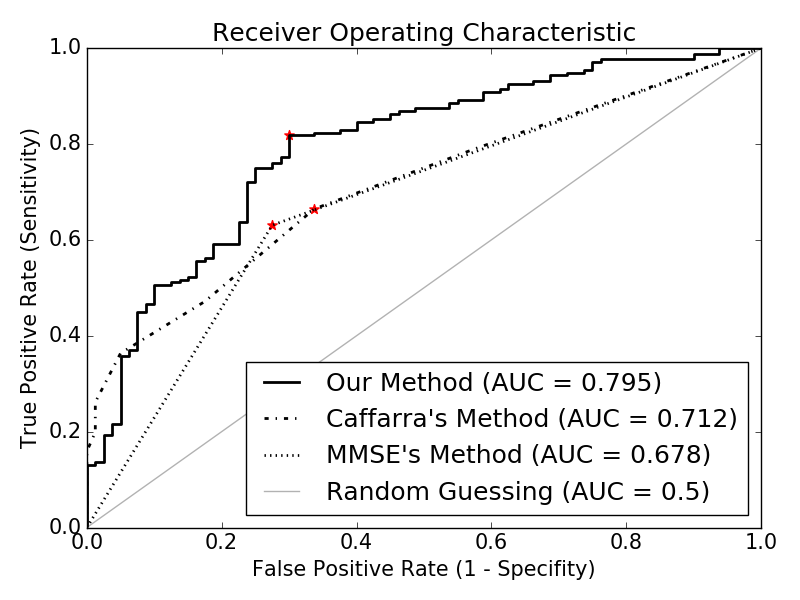
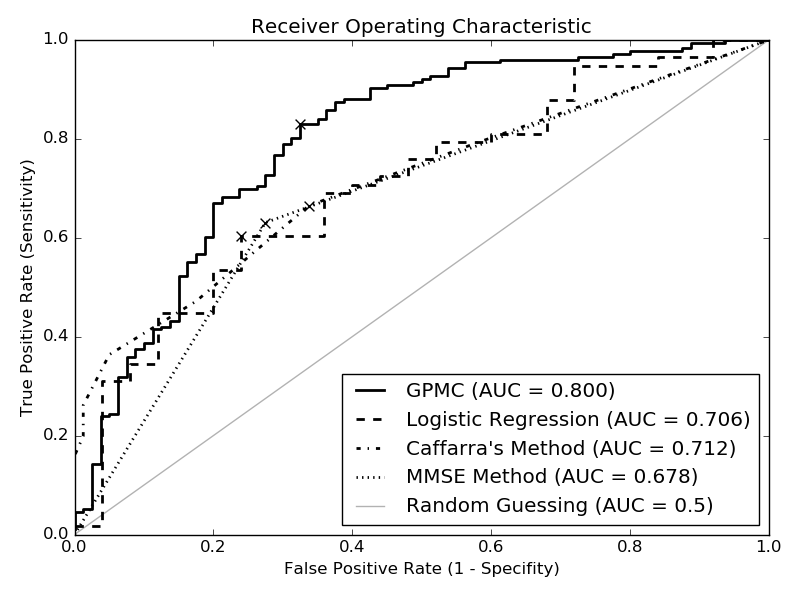
commit from max-OptiPlex-7040 by max

diff --git a/applications/digital_drawing/evaluate_features.py b/applications/digital_drawing/evaluate_features.py
@@ -7,6 +7,7 @@ import numpy as np
 import pandas as pd
 import matplotlib.pyplot as plt
 from sklearn.metrics import roc_curve, auc
+from sklearn.linear_model import LogisticRegression
 from DecisionSystem import DecisionSystem
 
 from sys import path
@@ -15,7 +16,7 @@ from GomPlex import *
 
 DRAWING_RAW_DATA_PATH = 'drawing_raw_data.csv'
 
-model = DecisionSystem(sample_time=50, use_past=4,
+model = DecisionSystem(sample_time=100, use_past=4,
     use_gender=True, use_age=True, use_edu_level=True,
     show_training_drawings=False, show_predicted_drawings=False)
 model.load_drawing_data(DRAWING_RAW_DATA_PATH)
@@ -41,16 +42,40 @@ def get_eval_from_fpr_tpr(fpr, tpr):
     print("Accuracy =", accuracy)
     print("Precision =", precision)
     print("F1 Score =", F1)
-
+    
 AUC, F1, cfs_mat, cis, pred_cis = model.eval_features_for_subjects()
+
 fpr, tpr, thresholds = roc_curve(cis, pred_cis)
 AUC = auc(fpr, tpr)
 arg = np.argmax(tpr-fpr)
-plt.plot(fpr, tpr, color='black', lw=2, linestyle='-', label='Our Method (AUC = %0.3f)' % AUC)
-plt.scatter(fpr[arg], tpr[arg], s=80, color='r', marker='x')
-# plt.text(fpr[arg]+0.005, tpr[arg]-0.04, '(%.3f, %.3f)'%(fpr[arg], tpr[arg]))
-print('Our Method:')
+plt.plot(fpr, tpr, color='black', lw=2, linestyle='-', label='GPMC (AUC = %0.3f)' % AUC)
+plt.scatter(fpr[arg], tpr[arg], s=50, color='k', marker='x')
+print('GPMC:')
 get_eval_from_fpr_tpr(fpr[arg], tpr[arg])
+
+lr = ['Number of angles', 'Intersection', 'Closure', 'Rotation', 'Closing-in']
+lr_mat = model.df_drawing_data[lr].as_matrix().tolist()
+lr_y = model.ci.as_matrix().astype(np.int64)
+X, y = [], []
+for i, lr_vec in enumerate(lr_mat):
+    avg_V = model.avg_V[model.df_drawing_data.index[i]]
+    std_V = model.std_V[model.df_drawing_data.index[i]]
+    avg_T = model.avg_T[model.df_drawing_data.index[i]]
+    std_T = model.std_T[model.df_drawing_data.index[i]]
+    if(not np.any(np.isnan([avg_V, std_V, avg_T, std_T]))):
+        lr_vec.extend([avg_V, std_V, avg_T, std_T])
+        X.append(lr_vec)
+        y.append(lr_y[i])
+lr_model = LogisticRegression().fit(X[:int(len(X)*0.65)], y[:int(len(X)*0.65)])
+pred_cis_lr = lr_model.predict_proba(X[int(len(X)*0.65):])
+fpr_lr, tpr_lr, thresholds_lr = roc_curve(y[int(len(X)*0.65):], pred_cis_lr[:, 1])
+AUC_lr = auc(fpr_lr, tpr_lr)
+arg_lr = np.argmax(tpr_lr-fpr_lr)
+plt.plot(fpr_lr, tpr_lr, color='black', lw=2, linestyle='--', label='Logistic Regression (AUC = %0.3f)' % AUC_lr)
+plt.scatter(fpr_lr[arg_lr], tpr_lr[arg_lr], s=50, color='k', marker='x')
+print('Logistic Regression:')
+get_eval_from_fpr_tpr(fpr_lr[arg_lr], tpr_lr[arg_lr])
+
 
 caffarra = ['Number of angles', 'Intersection', 'Closure', 'Rotation', 'Closing-in']
 caffarra_score = model.df_drawing_data[caffarra].sum(axis=1)
@@ -59,9 +84,7 @@ fpr_caff, tpr_caff, thresholds_caff = roc_curve(cis, 1-pred_cis_caff)
 AUC_caff = auc(fpr_caff, tpr_caff)
 arg_caff = np.argmax(tpr_caff-fpr_caff)
 plt.plot(fpr_caff, tpr_caff, color='black', lw=2, linestyle='-.', label='Caffarra\'s Method (AUC = %0.3f)' % AUC_caff)
-plt.scatter(fpr_caff[arg_caff], tpr_caff[arg_caff], s=80, color='r', marker='x')
-# plt.text(fpr_caff[arg_caff]+0.005, tpr_caff[arg_caff]-0.02,
-    # '(%.3f, %.3f)'%(fpr_caff[arg_caff], tpr_caff[arg_caff]))
+plt.scatter(fpr_caff[arg_caff], tpr_caff[arg_caff], s=50, color='k', marker='x')
 print('Caffarra\'s Method:')
 get_eval_from_fpr_tpr(fpr_caff[arg_caff], tpr_caff[arg_caff])
 
@@ -70,10 +93,8 @@ mmse_score = np.array(model.df_drawing_data[mmse].sum(axis=1)==8)/1.
 fpr_mmse, tpr_mmse, thresholds_mmse = roc_curve(cis, 1-mmse_score)
 AUC_mmse = auc(fpr_mmse, tpr_mmse)
 arg_mmse = np.argmax(tpr_mmse-fpr_mmse)
-plt.plot(fpr_mmse, tpr_mmse, color='black', lw=2, linestyle=':', label='MMSE\'s Method (AUC = %0.3f)' % AUC_mmse)
-plt.scatter(fpr_mmse[arg_mmse], tpr_mmse[arg_mmse], s=80, color='r', marker='x')
-# plt.text(fpr_mmse[arg_mmse]+0.008, tpr_mmse[arg_mmse]-0.04,
-    # '(%.3f, %.3f)'%(fpr_mmse[arg_mmse], tpr_mmse[arg_mmse]))
+plt.plot(fpr_mmse, tpr_mmse, color='black', lw=2, linestyle=':', label='MMSE Method (AUC = %0.3f)' % AUC_mmse)
+plt.scatter(fpr_mmse[arg_mmse], tpr_mmse[arg_mmse], s=50, color='k', marker='x')
 print('MMSE\'s Method:')
 get_eval_from_fpr_tpr(fpr_mmse[arg_mmse], tpr_mmse[arg_mmse])
 

diff --git a/applications/digital_drawing/DecisionSystem.py b/applications/digital_drawing/DecisionSystem.py
@@ -41,13 +41,14 @@ class DecisionSystem(object):
         self.metric = Metric(metric)
         self.show_training_drawings = show_training_drawings
         self.show_predicted_drawings = show_predicted_drawings
+        self.avg_V, self.std_V, self.avg_T, self.std_T = {}, {}, {}, {}
     
     def load_drawing_data(self, csv_path):
         self.df_drawing_data = pd.read_csv(csv_path, index_col=0, header=0)
         self.ci = self.df_drawing_data['MoCA Total'] < self.moca_cutoff
-        self.ci_p = self.ci.mean()
+        self.ci_p = 0.145
         self.nci = self.df_drawing_data['MoCA Total'] >= self.moca_cutoff
-        self.nci_p = self.nci.mean()
+        self.nci_p = 1-0.145
         if(self.use_age):
             self.age = self.df_drawing_data['Age']
             self.age_ci = self.age[self.ci]
@@ -94,11 +95,10 @@ class DecisionSystem(object):
         cfs_mat = np.zeros((2, 2))
         cis, pred_cis = [], []
         for subject in subjects:
-            self.df_drawing_data['Age']
-            leave_one_out_subjects = list(set(subjects).difference([subject]))
-            X_train, y_train = self.get_input_output_matrix_by_subjects(
-                leave_one_out_subjects)
-            model.fit(X_train, y_train)
+            # leave_one_out_subjects = list(set(subjects).difference([subject]))
+            # X_train, y_train = self.get_input_output_matrix_by_subjects(
+            #     leave_one_out_subjects)
+            # model.fit(X_train, y_train)
             ci, y, mu_ci, std_ci, mu_nci, std_nci =\
                 self.predict_next_drawing_state(subject, model, reg_meth)
             prob_P_ci = norm.pdf(y.real-mu_ci.real, scale=std_ci[0, 0].real)*\
@@ -280,7 +280,7 @@ class DecisionSystem(object):
         drawing = np.vstack([d_X, d_Y, d_W, d_T]).T
         if(self.centimeter):
             drawing[:, :2] /= self.CENTIMETER_TO_PIXELS
-        input, output = self.get_drawing_input_output_by_XYWT(drawing)
+        input, output = self.get_drawing_input_output_by_XYWT(subject, drawing)
         moca_ci = self.df_drawing_data['MoCA Total'] < self.moca_cutoff
         ci = moca_ci.loc[subject]
         input = np.hstack((ci*np.ones((input.shape[0], 1)), input))
@@ -296,9 +296,13 @@ class DecisionSystem(object):
             input = np.hstack((input, edu_level*np.ones((input.shape[0], 1))))
         return input, output
     
-    def get_drawing_input_output_by_XYWT(self, drawing):
+    def get_drawing_input_output_by_XYWT(self, subject, drawing):
         drawing, d_cL, d_V, d_DI = self.get_drawing_features_by_XYWT(drawing)
         d_X, d_Y, d_W, d_T = drawing.T.tolist()
+        self.avg_V[subject] = np.mean(d_V)
+        self.std_V[subject] = np.std(d_V)
+        self.avg_T[subject] = np.mean(d_T)
+        self.std_T[subject] = np.std(d_T)
         d_cT = np.cumsum(d_T)
         bound_max = d_cT[-1]-np.median(d_T)*self.forecast_step
         bound_min = np.median(d_T)*self.use_past*self.forecast_step

diff --git a/applications/starter/train_keras.py b/applications/starter/train_keras.py
@@ -63,8 +63,8 @@ print('Generating training data ...')
 df_train = train.merge(df_data, how='left', on='parcelid')
 y_train = df_train['logerror'].values
 y_train = np.sign(y_train)*(np.abs(y_train)**p)
-y_train = np.hstack(np.maximum(0, y_train)[:, None],
-    np.maximum(0, -y_train)[:, None])
+y_train = np.hstack((np.maximum(0, y_train)[:, None],
+    np.maximum(0, -y_train)[:, None]))
 X_train = df_train.drop(['parcelid', 'logerror', 'transactiondate', 'propertyzoningdesc', 'propertycountylandusecode', 'censustractandblock',
 'rawcensustractandblock'], axis=1)
 columns = X_train.columns

diff --git a/applications/starter/train.py b/applications/starter/train.py
@@ -50,7 +50,9 @@ for col in cat_cols:
     if(np.unique(prop[col]).shape[0]<50):
         filter_cat_cols.append(col)
         prop[col] = prop[col].astype('category')
-df_data = pd.concat([df_data, pd.get_dummies(prop[filter_cat_cols])], axis=1)
+cat_data = pd.get_dummies(prop[filter_cat_cols])
+
+df_data = pd.concat([df_data, ], axis=1)
 
 num_cols = [col for col in prop.columns if col not in cat_cols+filter_cols]
 df_data = pd.concat([df_data, prop[num_cols]], axis=1)
